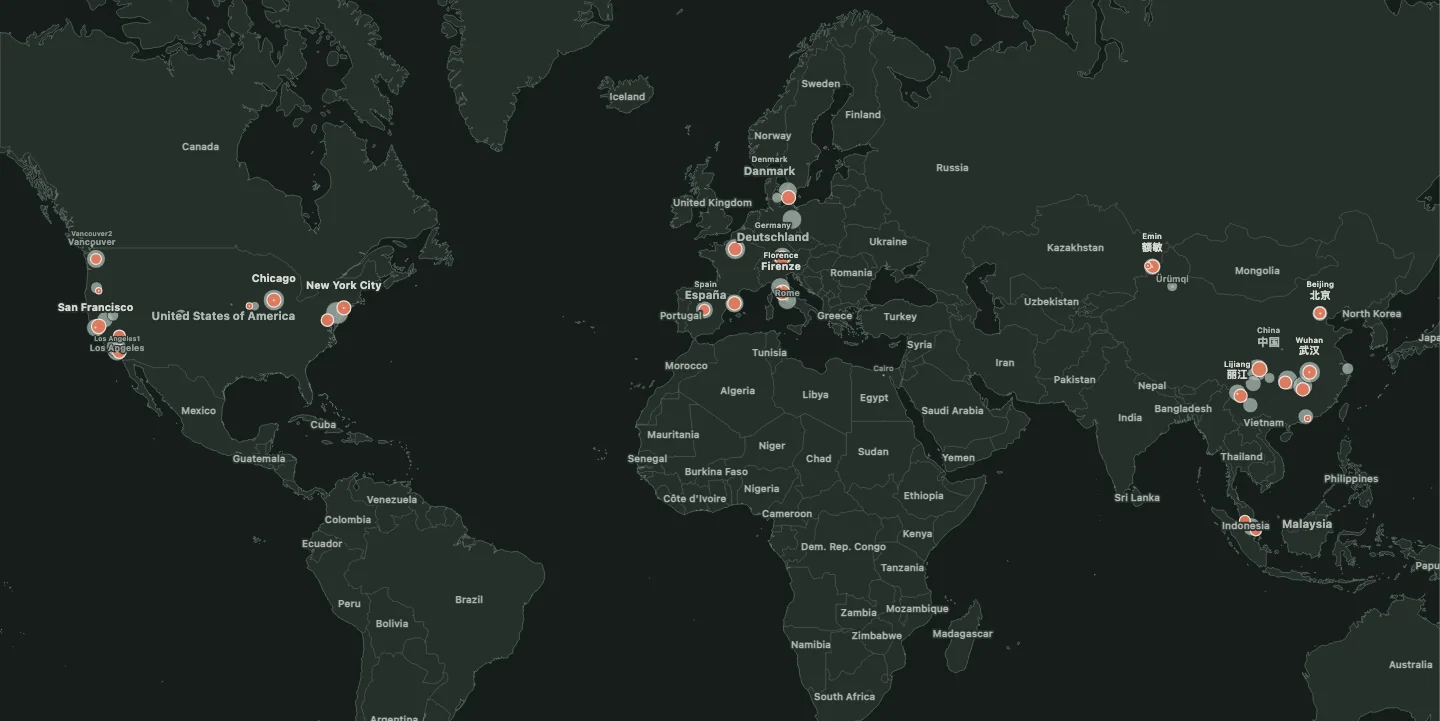
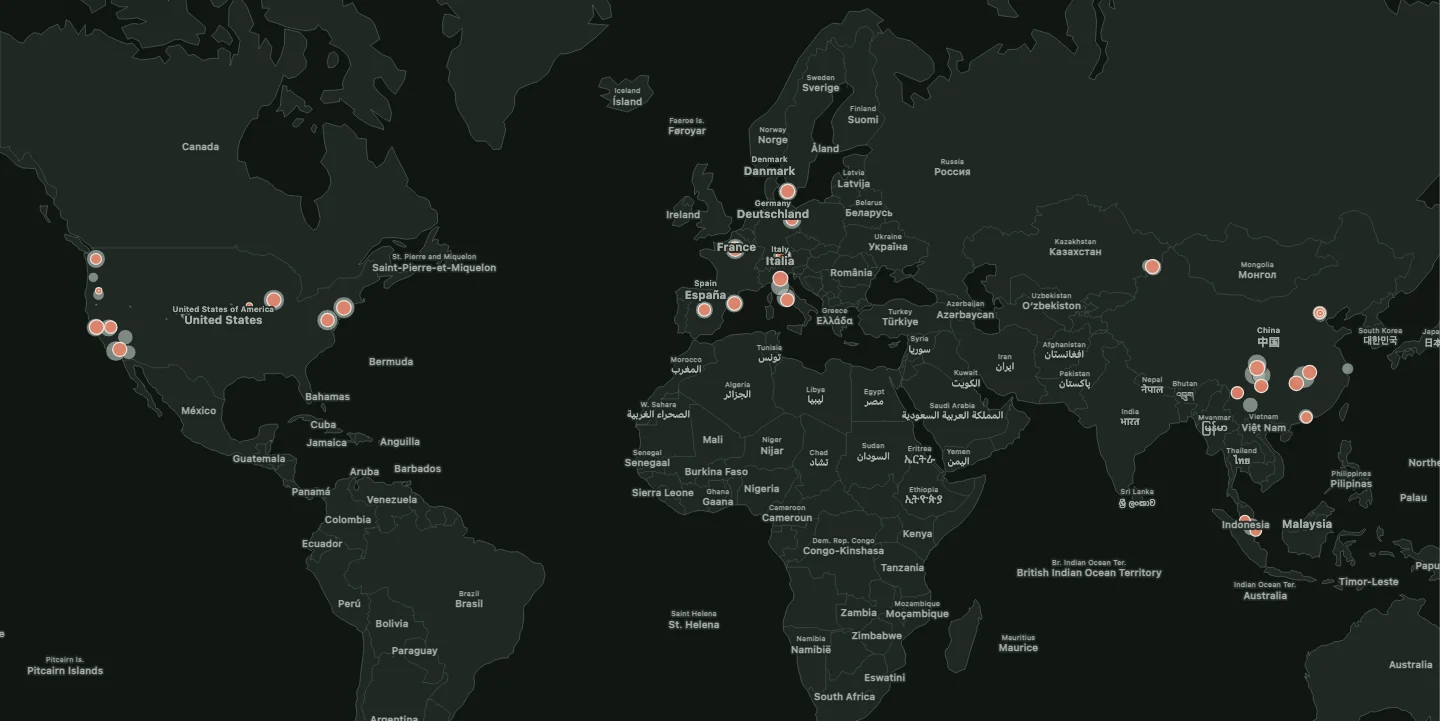
web layout fix

diff --git a/personal-life.html b/personal-life.html
@@ -10,21 +10,19 @@
   <link rel="preconnect" href="https://i.ytimg.com">
   <link rel="preconnect" href="https://cdn.cloudflare.steamstatic.com">
   <link rel="preconnect" href="https://m.media-amazon.com">
-  <link rel="stylesheet" href="assets/styles/main.css?v=20260821-30">
+  <link rel="stylesheet" href="assets/styles/main.css?v=20260821-32">
   <script src="assets/scripts/nav-menu.js" defer></script>
 </head>
 <body class="life-page">
   <div class="page">
     <header class="masthead">
-      <a class="brand" href="https://miro0o.github.io/" aria-label="Miro0o home">
-        <img src="assets/images/branding/site-logo.webp" width="42" height="42" alt="">
-        <span>Miro0o</span>
-      </a>
-      <nav aria-label="Primary">
-        <a href="index.html">Home</a>
+      <nav class="masthead-primary" aria-label="Primary">
+        <a class="home-link" href="index.html" aria-label="Home"><svg viewBox="0 0 24 24" aria-hidden="true"><path d="M3 10.8 12 3l9 7.8v9.7a.5.5 0 0 1-.5.5h-5.75v-6.5h-5.5V21H3.5a.5.5 0 0 1-.5-.5v-9.7Z"/></svg></a>
         <a href="worldmodel.html">Knowledge</a>
+      </nav>
+      <nav class="masthead-actions" aria-label="Personal and display settings">
         <details class="nav-menu">
-          <summary aria-current="page">About Me</summary>
+          <summary aria-current="page"><span class="about-wide">About Me</span><span class="about-compact">About</span></summary>
           <div class="nav-submenu">
             <a href="academic.html">Academic</a>
             <a href="personal-life.html" aria-current="page">Life</a>
@@ -355,12 +353,12 @@
                 <figure class="travel-map" aria-label="Zoomable map of photographs taken while travelling">
                   <div class="travel-map__preview" data-travel-preview aria-hidden="true">
                     <picture class="travel-map__preview-image travel-map__preview-image--day">
-                      <source media="(max-width: 900px)" srcset="assets/images/travel/map-preview-mobile.webp?v=20260820-1">
-                      <img src="assets/images/travel/map-preview.webp?v=20260820-2" width="1440" height="721" alt="" decoding="async">
+                      <source media="(max-width: 900px)" srcset="assets/images/travel/map-preview-mobile.webp?v=20260821-1">
+                      <img src="assets/images/travel/map-preview.webp?v=20260821-1" width="1440" height="721" alt="" decoding="async">
                     </picture>
                     <picture class="travel-map__preview-image travel-map__preview-image--night">
-                      <source media="(max-width: 900px)" srcset="assets/images/travel/map-preview-night-mobile.webp?v=20260820-1">
-                      <img src="assets/images/travel/map-preview-night.webp?v=20260820-1" width="1440" height="721" alt="" decoding="async">
+                      <source media="(max-width: 900px)" srcset="assets/images/travel/map-preview-night-mobile.webp?v=20260821-1">
+                      <img src="assets/images/travel/map-preview-night.webp?v=20260821-1" width="1440" height="721" alt="" decoding="async">
                     </picture>
                   </div>
                   <div class="travel-map__canvas" data-travel-map></div>

diff --git a/worldmodel.html b/worldmodel.html
@@ -14,21 +14,19 @@
 <body class="worldmodel-page">
   <div class="page">
     <header class="masthead worldmodel-header">
-      <a class="brand" href="https://miro0o.github.io/" aria-label="Miro0o home">
-        <img src="assets/images/branding/site-logo.webp" width="42" height="42" alt="">
-        <span>Miro0o</span>
-      </a>
-      <a class="worldmodel-header-title" href="https://github.com/Miro0o/miniWorldModel">
+      <nav class="masthead-primary" aria-label="Primary">
+        <a class="home-link" href="index.html" aria-label="Home"><svg viewBox="0 0 24 24" aria-hidden="true"><path d="M3 10.8 12 3l9 7.8v9.7a.5.5 0 0 1-.5.5h-5.75v-6.5h-5.5V21H3.5a.5.5 0 0 1-.5-.5v-9.7Z"/></svg></a>
+        <a href="worldmodel.html" aria-current="page">Knowledge</a>
+      </nav>
+      <a class="worldmodel-header-title" href="https://github.com/Miro0o/miniWorldModel" aria-label="miniWorldModel on GitHub">
         <span>miniWorldModel</span>
         <svg viewBox="0 0 16 16" aria-hidden="true">
           <path d="M8 0C3.58 0 0 3.58 0 8a8 8 0 0 0 5.47 7.59c.4.07.55-.17.55-.38l-.01-1.49c-2.23.49-2.7-1.08-2.7-1.08-.36-.93-.89-1.18-.89-1.18-.73-.5.05-.49.05-.49.81.06 1.23.83 1.23.83.72 1.23 1.88.88 2.34.67.07-.52.28-.88.51-1.08-1.78-.2-3.65-.89-3.65-3.95 0-.87.31-1.59.82-2.15-.08-.2-.36-1.02.08-2.12 0 0 .67-.21 2.2.82A7.65 7.65 0 0 1 8 3.72 7.65 7.65 0 0 1 10 4c1.53-1.04 2.2-.82 2.2-.82.44 1.1.16 1.92.08 2.12.51.56.82 1.27.82 2.15 0 3.07-1.87 3.75-3.65 3.95.29.25.54.74.54 1.5l-.01 2.22c0 .21.14.46.55.38A8 8 0 0 0 8 0Z"/>
         </svg>
       </a>
-      <nav aria-label="Primary">
-        <a href="index.html">Home</a>
-        <a href="worldmodel.html" aria-current="page">Knowledge</a>
+      <nav class="masthead-actions" aria-label="Personal and display settings">
         <details class="nav-menu">
-          <summary>About Me</summary>
+          <summary><span class="about-wide">About Me</span><span class="about-compact">About</span></summary>
           <div class="nav-submenu">
             <a href="academic.html">Academic</a>
             <a href="personal-life.html">Life</a>

diff --git a/assets/styles/site-shell-worldmodel.css b/assets/styles/site-shell-worldmodel.css
@@ -36,7 +36,7 @@ body.worldmodel-page {
 
 .worldmodel-header-title {
   position: absolute;
-  top: 21px;
+  top: 50%;
   left: 50%;
   display: inline-flex;
   align-items: center;
@@ -594,12 +594,6 @@ body.meta-home {
     gap: 10px;
   }
 
-  .masthead {
-    align-items: center;
-    display: grid;
-    grid-template-columns: auto minmax(0, 1fr);
-  }
-
   .masthead nav {
     width: auto;
     min-width: 0;
@@ -607,8 +601,8 @@ body.meta-home {
     overflow: visible;
   }
 
-  .worldmodel-header-title {
-    display: none;
+  .masthead .masthead-primary {
+    justify-content: flex-start;
   }
 
   .meta-home footer,
@@ -779,11 +773,27 @@ body.meta-home {
     gap: 12px;
     overflow: visible;
   }
+
+}
+
+@media (max-width: 460px) {
+  .worldmodel-header-title span {
+    display: none;
+  }
+
+  .worldmodel-header-title svg {
+    width: 17px;
+    height: 17px;
+  }
 }
 
 @media (max-width: 420px) {
-  .masthead .brand span {
+  .about-wide {
     display: none;
+  }
+
+  .about-compact {
+    display: inline;
   }
 
   h1 {
@@ -867,8 +877,8 @@ body.meta-home {
   }
 }
 
-/* Keep the mobile footer as a utility bar and let status copy float over the canvas. */
-@media (max-width: 600px) {
+/* Switch directly from the full footer to a compact single-row utility bar. */
+@media (max-width: 900px) {
   .page,
   .meta-home .page,
   .worldmodel-page .page,
@@ -934,7 +944,10 @@ body.meta-home {
     justify-self: end;
     margin-left: 0;
   }
+}
 
+/* On phone-sized screens, status copy floats over the canvas. */
+@media (max-width: 600px) {
   .diagram-readout,
   .worldmodel-caption {
     position: fixed;

diff --git a/academic.html b/academic.html
@@ -12,15 +12,13 @@
 <body class="academic-page">
   <div class="page">
     <header class="masthead">
-      <a class="brand" href="https://miro0o.github.io/" aria-label="Miro0o home">
-        <img src="assets/images/branding/site-logo.webp" width="42" height="42" alt="">
-        <span>Miro0o</span>
-      </a>
-      <nav aria-label="Primary">
-        <a href="index.html">Home</a>
+      <nav class="masthead-primary" aria-label="Primary">
+        <a class="home-link" href="index.html" aria-label="Home"><svg viewBox="0 0 24 24" aria-hidden="true"><path d="M3 10.8 12 3l9 7.8v9.7a.5.5 0 0 1-.5.5h-5.75v-6.5h-5.5V21H3.5a.5.5 0 0 1-.5-.5v-9.7Z"/></svg></a>
         <a href="worldmodel.html">Knowledge</a>
+      </nav>
+      <nav class="masthead-actions" aria-label="Personal and display settings">
         <details class="nav-menu">
-          <summary aria-current="page">About Me</summary>
+          <summary aria-current="page"><span class="about-wide">About Me</span><span class="about-compact">About</span></summary>
           <div class="nav-submenu">
             <a href="academic.html" aria-current="page">Academic</a>
             <a href="personal-life.html">Life</a>

diff --git a/index.html b/index.html
@@ -12,15 +12,13 @@
 <body class="meta-home">
   <div class="page">
     <header class="masthead">
-      <a class="brand" href="https://miro0o.github.io/" aria-label="Miro0o home">
-        <img src="assets/images/branding/site-logo.webp" width="42" height="42" alt="">
-        <span>Miro0o</span>
-      </a>
-      <nav aria-label="Primary">
-        <a href="index.html" aria-current="page">Home</a>
+      <nav class="masthead-primary" aria-label="Primary">
+        <a class="home-link" href="index.html" aria-label="Home" aria-current="page"><svg viewBox="0 0 24 24" aria-hidden="true"><path d="M3 10.8 12 3l9 7.8v9.7a.5.5 0 0 1-.5.5h-5.75v-6.5h-5.5V21H3.5a.5.5 0 0 1-.5-.5v-9.7Z"/></svg></a>
         <a href="worldmodel.html">Knowledge</a>
+      </nav>
+      <nav class="masthead-actions" aria-label="Personal and display settings">
         <details class="nav-menu">
-          <summary>About Me</summary>
+          <summary><span class="about-wide">About Me</span><span class="about-compact">About</span></summary>
           <div class="nav-submenu">
             <a href="academic.html">Academic</a>
             <a href="personal-life.html">Life</a>

diff --git a/assets/styles/life-responsive.css b/assets/styles/life-responsive.css
@@ -61,13 +61,13 @@
 
   .life-accordion,
   .life-accordion.has-open-panel {
-    top: 42%;
+    top: auto;
     bottom: 0;
     left: 0;
     flex-direction: column;
     width: 100%;
     min-width: 0;
-    height: 58%;
+    height: 74%;
     transition: top 460ms cubic-bezier(0.2, 0.72, 0.25, 1), height 460ms cubic-bezier(0.2, 0.72, 0.25, 1);
   }
 
@@ -336,13 +336,13 @@
 /* On phones, stack cards vertically with tapered horizontal fold seams. */
 @media (max-width: 720px) {
   .life-page .life-accordion:not(.has-open-panel) {
-    top: 42%;
+    top: auto;
     bottom: 0;
     display: flex;
     flex-direction: column;
     gap: 0;
     width: 100%;
-    height: 58%;
+    height: 74%;
     padding: 0;
     overflow: hidden;
   }

diff --git a/assets/styles/base-home.css b/assets/styles/base-home.css
@@ -150,6 +150,36 @@ button:focus-visible,
   font-size: 0.92rem;
 }
 
+.masthead > nav {
+  width: auto;
+  padding-bottom: 0;
+}
+
+.masthead-primary {
+  justify-content: flex-start;
+}
+
+.home-link {
+  display: inline-grid;
+  width: 25px;
+  height: 25px;
+  place-items: center;
+}
+
+.home-link svg {
+  width: 18px;
+  height: 18px;
+  fill: none;
+  stroke: currentColor;
+  stroke-linecap: round;
+  stroke-linejoin: round;
+  stroke-width: 1.5;
+}
+
+.about-compact {
+  display: none;
+}
+
 .brand {
   display: inline-flex;
   align-items: center;

diff --git a/assets/styles/main.css b/assets/styles/main.css
@@ -11,6 +11,6 @@
 @import url("life-accordion.css?v=20260821-5");
 @import url("life-posters.css");
 @import url("life-film-books.css?v=20260716-13");
-@import url("life-responsive.css?v=20260820-33");
+@import url("life-responsive.css?v=20260821-35");
 @import url("life-games.css?v=20260716-36");
 @import url("life-travel.css?v=20260821-28");
